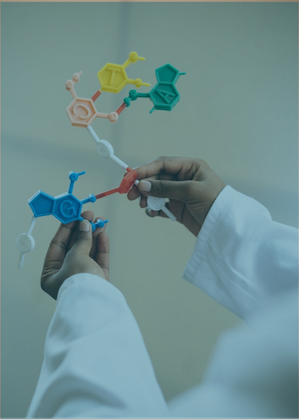
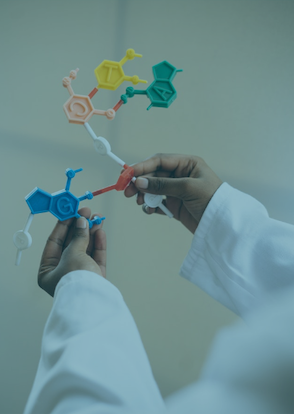
Hintbox mobile and img fix
- Merged the hintbox mobile version with a checkbox hack.
- Fixed all the brown outer lines on the hero images

diff --git a/styles.css b/styles.css
@@ -377,38 +377,35 @@ nav ul li:active{
     box-shadow: 0 0 10px;
     background: white;
 }
-.hintBox{
-    position: absolute;
-    left: 100px;
-    width: 1.25em;
-    text-align: center;
-    border: 1px solid black;
-    border-radius: 50px;
-    background: lightblue;
-}
-.hintBox__text{
-    visibility: hidden;
-    width: 250px;
-    background-color: #555;
-    color: #fff;
-    text-align: center;
-    padding: 5px 0;
-    border-radius: 6px;
-    position: absolute;
-    z-index: 1;
-    bottom: 125%;
-    left: 50%;
-    margin-left: -60px;
-    opacity: 0;
-    transition: opacity 0.3s;
-}
-.hintBox:hover .hintBox__text{
-    visibility: visible;
-    opacity: 1;
-}
 .tickets__form label{
     margin: 40px 0 3px 0;
 }
+.hintBox__text{
+    display: none;
+}
+.hintBox{
+    display: none;
+}
+.hintbox__label{
+    position: absolute;
+    left: 100px;
+    top: 170px;
+    border: 1px solid black;
+    border-radius: 10px;
+    padding: 2px 7px;
+    background: lightblue;
+    font-size: 15px;
+}
+#hintbox:checked ~ .hintbox__text::after {
+    content: "1 Family ticket = 2 Children tickets and 2 Adults tickets";
+}
+.visually-hidden {
+    position: absolute;
+    left: 50px;
+    width: 50px;
+    opacity: 0;
+}
+
 .button-ticketsForm{
     border-radius: 5px;
     height: 30px;
@@ -539,7 +536,7 @@ nav ul li:active{
 /*----------------------CONTACT----------*/
 .contact{
     background: linear-gradient(#04C4D9, #84B1D9);
-    height: 1200px;
+    padding-bottom: 100px;
 }
 
 /*--------Top Page----------*/
@@ -717,8 +714,41 @@ nav ul li:active{
     .topPage-contact{
         background-image: url(images/universe.jpg);
     }
-
-
+    
+    .hintbox-mobile{
+        display: none;
+    }
+    .hintBox{
+        display: block;
+        position: absolute;
+        left: 100px;
+        width: 1.25em;
+        text-align: center;
+        border: 1px solid black;
+        border-radius: 50px;
+        background: lightblue;
+    }
+    .hintBox__text{
+        display: block;
+        visibility: hidden;
+        width: 250px;
+        background-color: #555;
+        color: #fff;
+        text-align: center;
+        padding: 5px 0;
+        border-radius: 6px;
+        position: absolute;
+        z-index: 1;
+        bottom: 125%;
+        left: 50%;
+        margin-left: -60px;
+        opacity: 0;
+        transition: opacity 0.3s;
+    }
+    .hintBox:hover .hintBox__text{
+        visibility: visible;
+        opacity: 1;
+    }
 
 
 }

diff --git a/tickets.html b/tickets.html
@@ -69,6 +69,11 @@
                         <div class="hintBox">?
                             <span class="hintBox__text">1 Family ticket = 2 Children tickets and 2 Adults tickets</span>
                         </div>
+                        <div class="hintbox-mobile">
+                            <label class="hintbox__label" for="hintbox">?</label>
+                            <input type="checkbox" id="hintbox" class="visually-hidden">
+                            <div class="hintbox__text"></div>
+                        </div>
                         <select id="family" name="Family">
                             <option name="0">0</option>
                             <option name="1">1</option>
